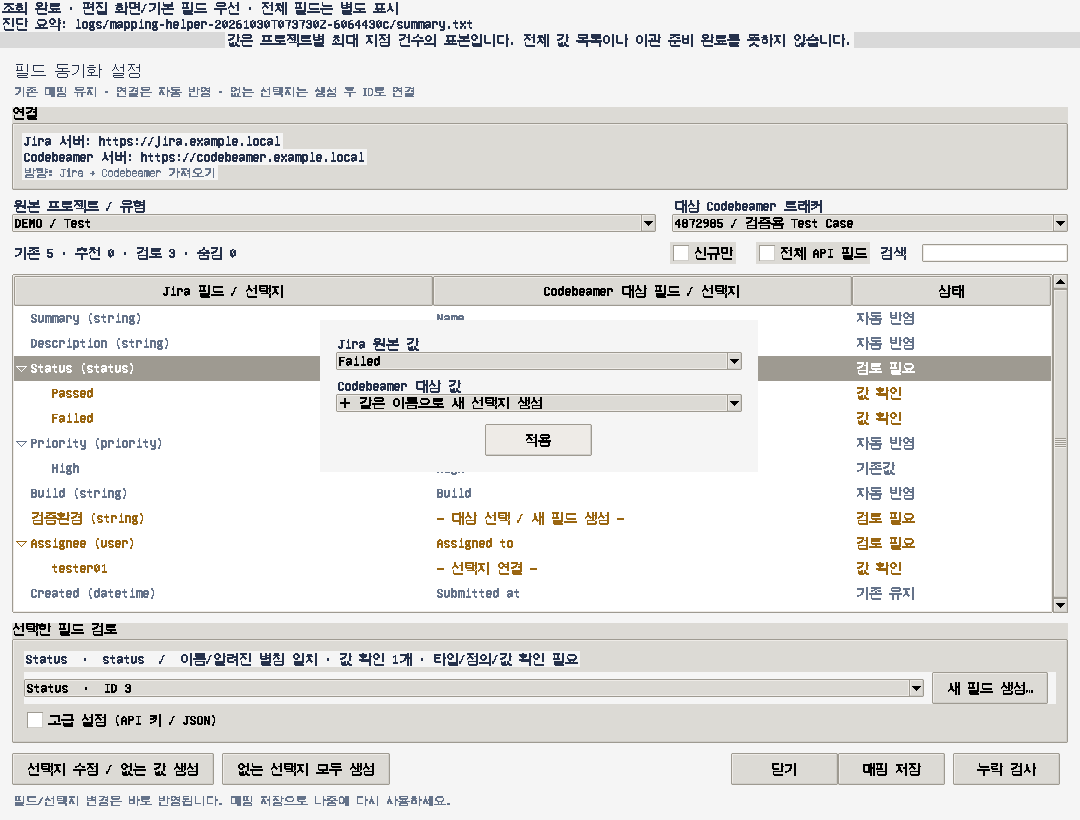
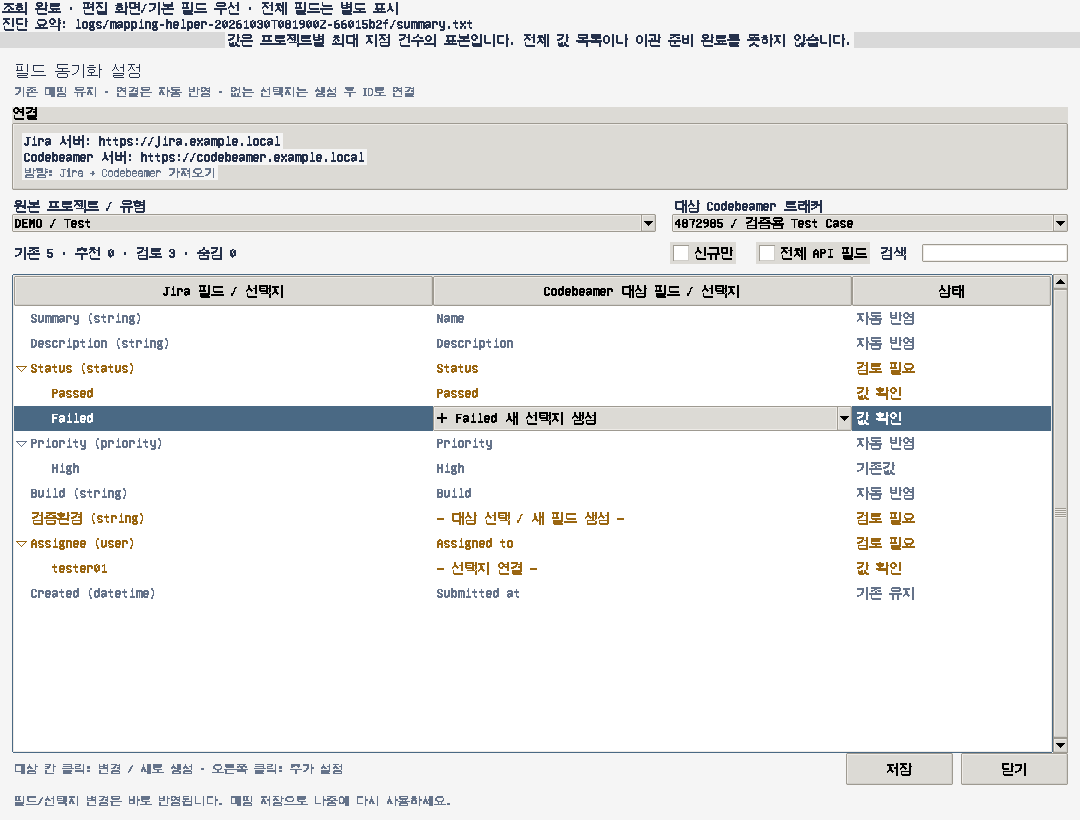
Edit mapping targets directly in the table and remove duplicate controls

Changed region(s): [[0.0, 0.7317, 1.0, 0.9756], [0.0, 0.3963, 0.9778, 0.5793]]

diff --git a/jira-xray-cb-migration/mapping_helper.py b/jira-xray-cb-migration/mapping_helper.py
@@ -836,12 +836,13 @@ def main():
         table.tag_configure('kept',foreground='#65738a')
         table.tag_configure('ready',foreground='#176c51')
         table.tag_configure('review',foreground='#9a6611')
-        editor = ttk.LabelFrame(body,text='선택한 필드 검토',padding=10);editor.pack(fill='x',pady=10)
+        editor=tk.Toplevel(root);editor.title('고급 매핑 설정');editor.withdraw()
+        editor.protocol('WM_DELETE_WINDOW',editor.withdraw)
         selected_text = tk.StringVar(value='목록에서 필드를 선택하세요.')
         ttk.Label(editor,textvariable=selected_text).pack(anchor='w')
         row = ttk.Frame(editor);row.pack(fill='x',pady=5)
         field_box=ttk.Combobox(row,state='readonly',width=37);field_box.pack(side='left',fill='x',expand=True)
-        advanced=ttk.Frame(editor)
+        advanced=ttk.Frame(editor);advanced.pack(fill='both',expand=True)
         advanced_row=ttk.Frame(advanced);advanced_row.pack(fill='x')
         conversion=ttk.Combobox(advanced_row,state='readonly',width=12,values=['text','json','raw','number','boolean','date','datetime','user','status','option','reference']);conversion.pack(side='left',padx=8)
         target_key=ttk.Entry(advanced_row,width=22);target_key.pack(side='left')
@@ -1013,35 +1014,6 @@ def main():
             threading.Thread(target=worker,daemon=True).start()
             notice.set('대상에 없는 원본 값을 선택지로 생성 중…')
 
-        def edit_value(event=None):
-            parent=selected_parent()
-            if not parent or parent not in rows:notice.set('원본 필드를 선택하세요.');return
-            p,t,tracker=current();source,proposal=rows[parent]
-            entries=list(source_choices(source_observations(t,source)).items())
-            if not entries:notice.set('조회된 원본 선택지/값이 없습니다.');return
-            if not proposal.get('field'):notice.set('먼저 대상 필드를 선택하세요. 없으면 새 필드 생성을 사용하세요.');return
-            options=[o for o in proposal['field'].get('options') or [] if isinstance(o,dict) and o.get('id') is not None]
-            dialog=tk.Toplevel(root);dialog.title('선택지 연결 / 없는 값 생성');dialog.transient(root);dialog.grab_set()
-            panel=ttk.Frame(dialog,padding=16);panel.pack(fill='both',expand=True)
-            ttk.Label(panel,text='Jira 원본 값').pack(anchor='w')
-            original=ttk.Combobox(panel,state='readonly',width=55,values=[label for _,label in entries]);original.pack(fill='x');original.current(0)
-            selection=table.selection();children=list(table.get_children(parent))
-            if selection and selection[0] in children:original.current(children.index(selection[0]))
-            ttk.Label(panel,text='Codebeamer 대상 값').pack(anchor='w',pady=(8,0))
-            box=ttk.Combobox(panel,state='readonly',width=55,values=['＋ 같은 이름으로 새 선택지 생성']+[str(o.get('name',o.get('label',''))) + ' / ID '+str(o['id']) for o in options]);box.pack(fill='x')
-            def pick(event=None):
-                _,label=entries[original.current()]
-                matched=matching_option(proposal['field'],label)
-                box.current(options.index(matched)+1 if matched in options else 0)
-            original.bind('<<ComboboxSelected>>',pick);pick()
-            def accept():
-                identity,label=entries[original.current()]
-                if box.current()==0:
-                    dialog.destroy();create_options(source,proposal,{identity:label});return
-                if box.current()<0:return
-                mapping=deepcopy(proposal.get('values',{}));mapping[identity]={'id':options[box.current()-1]['id']}
-                dialog.destroy();remember_values(source,mapping)
-            ttk.Button(panel,text='적용',command=accept).pack(pady=(12,0))
         def propose_creation():
             if creation_busy.get():
                 notice.set('이전 필드 생성 결과를 확인 중입니다. 잠시 기다려주세요.');return
@@ -1126,15 +1098,79 @@ def main():
 
         ttk.Checkbutton(bar,text='전체 API 필드',variable=all_fields,command=refresh).pack(side='right',padx=8)
         ttk.Checkbutton(bar,text='신규만',variable=new_only,command=refresh).pack(side='right',padx=12)
-        ttk.Button(row,text='새 필드 생성…',command=propose_creation).pack(side='left',padx=8)
-        ttk.Button(foot,text='선택지 수정 / 없는 값 생성',command=edit_value).pack(side='left')
-        ttk.Button(foot,text='없는 선택지 모두 생성',command=lambda:create_options(*rows[selected_parent()]) if selected_parent() in rows else notice.set('원본 필드를 선택하세요.')).pack(side='left',padx=8)
-        ttk.Button(foot,text='누락 검사',command=check).pack(side='right',padx=8)
-        ttk.Button(foot,text='매핑 저장',command=save).pack(side='right')
+        inline_widget=[None]
+        def edit_target(event=None):
+            if inline_widget[0] is not None:
+                try:inline_widget[0].destroy()
+                except tk.TclError:pass
+                inline_widget[0]=None
+            if event is not None and getattr(event,'num',None)==1:
+                item=table.identify_row(event.y)
+                if not item or table.identify_column(event.x)!='#1':return
+                table.selection_set(item)
+            else:
+                selection=table.selection()
+                if not selection:return
+                item=selection[0]
+            inspect()
+            parent=item if item in rows else table.parent(item)
+            if parent not in rows:return
+            p,t,tracker=current();source,proposal=rows[parent]
+            bbox=table.bbox(item,'target')
+            if not bbox:return
+            x,y,width,height=bbox
+            if item in rows:
+                labels=['＋ 새 필드 생성']+[str(field.get('label',field.get('name','')))+' / ID '+str(field.get('id',field.get('referenceId'))) for field in fields]
+                box=ttk.Combobox(table,state='readonly',values=labels)
+                old=proposal.get('field')
+                box.current(fields.index(old)+1 if old in fields else 0)
+                def accept(event=None):
+                    index=box.current();box.destroy();inline_widget[0]=None
+                    if index==0:propose_creation()
+                    elif index>0:field_box.current(index-1);change_field()
+            else:
+                entries=list(source_choices(source_observations(t,source)).items())
+                children=list(table.get_children(parent))
+                identity,label=entries[children.index(item)]
+                field=proposal.get('field')
+                if not field:notice.set('먼저 상위 필드의 대상 칸에서 연결하거나 새 필드를 만드세요.');return
+                options=[option for option in field.get('options') or [] if isinstance(option,dict) and option.get('id') is not None]
+                box=ttk.Combobox(table,state='readonly',values=['＋ '+label+' 새 선택지 생성']+[str(option.get('name',option.get('label','')))+' / ID '+str(option['id']) for option in options])
+                mapped=proposal.get('values',{}).get(identity)
+                index=next((number+1 for number,option in enumerate(options) if isinstance(mapped,dict) and mapped.get('id')==option['id']),0)
+                box.current(index)
+                def accept(event=None):
+                    index=box.current();box.destroy();inline_widget[0]=None
+                    if index==0:create_options(source,proposal,{identity:label})
+                    elif index>0:
+                        mapping=deepcopy(proposal.get('values',{}));mapping[identity]={'id':options[index-1]['id']}
+                        remember_values(source,mapping)
+            inline_widget[0]=box
+            box.place(x=x,y=y,width=width,height=height)
+            box.bind('<<ComboboxSelected>>',accept)
+            box.bind('<Escape>',lambda event:box.destroy())
+            box.focus_set()
+
+        def advanced_settings():
+            inspect();editor.deiconify();editor.lift()
+
+        menu=tk.Menu(root,tearoff=False)
+        menu.add_command(label='대상 필드/선택지 변경',command=edit_target)
+        menu.add_command(label='새 필드 생성…',command=propose_creation)
+        menu.add_command(label='이 필드의 없는 선택지 모두 생성',command=lambda:create_options(*rows[selected_parent()]) if selected_parent() in rows else None)
+        menu.add_separator()
+        menu.add_command(label='고급 설정…',command=advanced_settings)
+        def open_menu(event):
+            item=table.identify_row(event.y)
+            if item:table.selection_set(item);inspect()
+            menu.tk_popup(event.x_root,event.y_root)
+
+        ttk.Label(foot,text='대상 칸 클릭: 변경 / 새로 생성 · 오른쪽 클릭: 추가 설정',style='Note.TLabel').pack(side='left',pady=8)
         ttk.Button(foot,text='닫기',command=root.destroy).pack(side='right')
-        show_advanced=tk.BooleanVar(value=False)
-        ttk.Checkbutton(editor,text='고급 설정 (API 키 / JSON)',variable=show_advanced,command=lambda:advanced.pack(fill='x',pady=5) if show_advanced.get() else advanced.pack_forget()).pack(anchor='w')
-        table.bind('<<TreeviewSelect>>',inspect);table.bind('<Double-1>',edit_value);field_box.bind('<<ComboboxSelected>>',change_field)
+        ttk.Button(foot,text='저장',command=save).pack(side='right',padx=8)
+        table.bind('<<TreeviewSelect>>',inspect)
+        table.bind('<Button-1>',edit_target);table.bind('<Return>',edit_target);table.bind('<Button-3>',open_menu)
+        field_box.bind('<<ComboboxSelected>>',change_field)
         conversion.bind('<<ComboboxSelected>>',apply_selected);target_key.bind('<FocusOut>',apply_selected);values.bind('<FocusOut>',apply_selected)
         def scope_changed(event=None):
             if scope_box.current()<0:return

diff --git a/jira-xray-cb-migration/tests/test_mapping_ui.py b/jira-xray-cb-migration/tests/test_mapping_ui.py
@@ -40,16 +40,16 @@ class MappingUISmokeTests(unittest.TestCase):
                     tree=next(w for w in descendants(window) if isinstance(w,ttk.Treeview))
                     status=next(item for item in tree.get_children() if tree.item(item,'text').startswith('Status'))
                     tree.selection_set(status);window.update()
-                    button=next(w for w in descendants(window) if isinstance(w,ttk.Button) and w.cget('text')=='선택지 수정 / 없는 값 생성')
-                    button.invoke();window.update()
-                    dialog=next(w for w in window.winfo_children() if isinstance(w,tk.Toplevel))
-                    boxes=[w for w in descendants(dialog) if isinstance(w,ttk.Combobox)]
-                    boxes[0].current(1);boxes[0].event_generate('<<ComboboxSelected>>');window.update()
-                    if boxes[1].current()!=0:raise AssertionError('Missing option should default to creation')
-                    boxes[1].current(1)
-                    next(w for w in descendants(dialog) if isinstance(w,ttk.Button) and w.cget('text')=='적용').invoke()
-                    window.update()
-                    next(w for w in descendants(window) if isinstance(w,ttk.Button) and w.cget('text')=='매핑 저장').invoke()
+                    tree.item(status,open=True);window.update()
+                    child=tree.get_children(status)[1]
+                    x,y,width,height=tree.bbox(child,'target')
+                    tree.event_generate('<Button-1>',x=x+5,y=y+height//2);window.update()
+                    box=next(w for w in tree.winfo_children() if isinstance(w,ttk.Combobox))
+                    if box.current()!=0:raise AssertionError('Missing option should default to creation')
+                    box.current(1);box.event_generate('<<ComboboxSelected>>');window.update()
+                    buttons=[w.cget('text') for w in descendants(window) if isinstance(w,ttk.Button) and w.winfo_viewable()]
+                    if set(buttons)!={'저장','닫기'}:raise AssertionError('Redundant footer controls are still visible: '+str(buttons))
+                    next(w for w in descendants(window) if isinstance(w,ttk.Button) and w.cget('text')=='저장').invoke()
                 except Exception as exc:errors.append(exc)
                 finally:window.after(10,window.destroy)
         with tempfile.TemporaryDirectory() as directory:

diff --git a/jira-xray-cb-migration/README.md b/jira-xray-cb-migration/README.md
@@ -420,17 +420,17 @@ python mapping_helper.py --config config.local.json --tracker-id 4862408 --track
 
 1. 원본 프로젝트/유형과 대상 트래커를 선택합니다. 기존 config 및 `mapping.local.json`의 매핑을 불러와 유지합니다.
 2. 새 필드는 이름·별칭·타입·선택지를 비교합니다. 유일하게 확인 가능한 연결은 자동 반영하고, 모호하거나 API 키/타입 정보가 부족한 항목은 설정 필요로 표시합니다. 기존 연결과 충돌하는 추천은 자동으로 덮어쓰지 않습니다.
-3. 필드를 펼치면 선택지 연결이 보입니다. `선택지 수정 / 없는 값 생성` 버튼은 필드 행에서도 열리며 더블클릭에 의존하지 않습니다. 원본/대상 값을 선택하고 적용하면 연결이 즉시 반영됩니다. 대상에 같은 이름의 값이 없으면 새 선택지 생성이 기본으로 표시됩니다.
-4. `없는 선택지 모두 생성`은 선택한 필드에서 조회된 원본 값을 대상으로, 기존 선택지는 재사용하고 없는 값만 서버에 생성해 실제 ID로 연결합니다. 임의의 ID를 만들지 않습니다.
-5. `매핑 저장`으로 저장하고 나중에 재사용합니다. 별도 확정 버튼이나 확인 팝업은 없습니다. 미완성 항목 수는 화면에 표시하며 저장만으로 실제 이관 완료를 의미하지 않습니다.
+3. 필드를 펼치면 선택지 연결이 보입니다. 대상 칸을 클릭하면 표 안에서 바로 필드/선택지를 선택할 수 있습니다. 대상에 같은 이름의 값이 없으면 새 선택지 생성이 기본으로 표시됩니다. 필드 행의 대상 메뉴에는 새 필드 생성도 포함됩니다.
+4. 오른쪽 클릭 메뉴의 `이 필드의 없는 선택지 모두 생성`은 선택한 필드에서 조회된 원본 값을 대상으로, 기존 선택지는 재사용하고 없는 값만 서버에 생성해 실제 ID로 연결합니다. 임의의 ID를 만들지 않습니다.
+5. `저장`으로 저장하고 나중에 재사용합니다. 별도 확정 버튼이나 확인 팝업은 없습니다. 미완성 항목 수는 화면에 표시하며 저장만으로 실제 이관 완료를 의미하지 않습니다.
 
 기본 목록은 Jira 표본 이슈의 `editmeta` 편집 화면 필드와 기본 필드를 우선합니다. 이는 Jira 보기 화면과 완전히 동일하다는 보장이 아닙니다. 조회할 수 없으면 값이 있는 필드와 기본 필드로 대체하고 경고합니다. `전체 API 필드`로 전체 목록을 볼 수 있습니다. 필터는 이관에서 필드를 삭제하거나 필수 검사를 건너뛰지 않습니다. 기본 표본은 프로젝트당 첫 20개이며 `--sample-limit 100` 등으로 조정할 수 있습니다(최대 1000). 조회된 allowedValues도 선택지 추천에 사용합니다.
 
-API 키·변환·JSON은 기본적으로 숨겨진 `고급 설정`에서 편집합니다. 알 수 없는 서버 타입 ID, FieldValue binding, 사용자 ID나 관계 ID를 추측하지 않습니다. 복잡한 사용자/참조 매핑이나 일부 배포별 스키마는 추가 설정이 필요합니다. 기존 API operations, FieldValue bindings, 관계 어댑터와 field_sync 설정을 이 화면이 모두 자동 완성하는 것은 아닙니다.
+하단 검토 패널과 중복 버튼을 없애고 `저장`/`닫기`만 표시합니다. API 키·변환·JSON은 오른쪽 클릭 메뉴의 `고급 설정…` 창에서 편집합니다. 알 수 없는 서버 타입 ID, FieldValue binding, 사용자 ID나 관계 ID를 추측하지 않습니다. 복잡한 사용자/참조 매핑이나 일부 배포별 스키마는 추가 설정이 필요합니다. 기존 API operations, FieldValue bindings, 관계 어댑터와 field_sync 설정을 이 화면이 모두 자동 완성하는 것은 아닙니다.
 
 ### 없는 필드/선택지 생성
 
-조회와 매핑 저장은 서버 데이터를 변경하지 않습니다. 반면 `새 필드 생성…`, 없는 값으로 `적용`, `없는 선택지 모두 생성`은 실제 서버 변경을 시작하는 버튼이며 추가 확정 팝업 없이 실행합니다.
+조회와 매핑 저장은 서버 데이터를 변경하지 않습니다. 반면 대상 메뉴의 `새 필드 생성`, `새 선택지 생성`, 오른쪽 클릭 메뉴의 `없는 선택지 모두 생성`은 실제 서버 변경을 시작하는 버튼이며 추가 확정 팝업 없이 실행합니다.
 
 - 새 필드: 서버에서 확인된 타입으로 생성 정의를 구성합니다. 전체 설정을 다시 비교하고 기존 필드/권한을 유지한 채 새 정의 하나만 추가하며 실제 필드 ID를 재조회합니다. 참조 필드 자동 생성 등 복잡한 계약은 지원하지 않습니다. 전체 설정 조회가 HTTP 500인 트래커에는 이 방식의 새 필드 생성이 불가능합니다.
 - 새 선택지: Swagger에 유일하게 확인되는 선택지 POST API와 요청 스키마가 있으면 사용합니다. 이 경우 필드 목록 조회로 검증하므로 전체 트래커 설정 API가 실패해도 전용 API가 정상이라면 진행할 수 있습니다. 전용 API가 없으면 실제 설정 업데이트 스키마에 선택지 추가 형식이 확인되는 경우에만 전체 설정을 보존하여 추가합니다. 서버가 ID를 필수로 요구하거나 필수 입력을 알 수 없으면 추측하지 않고 중단합니다.
